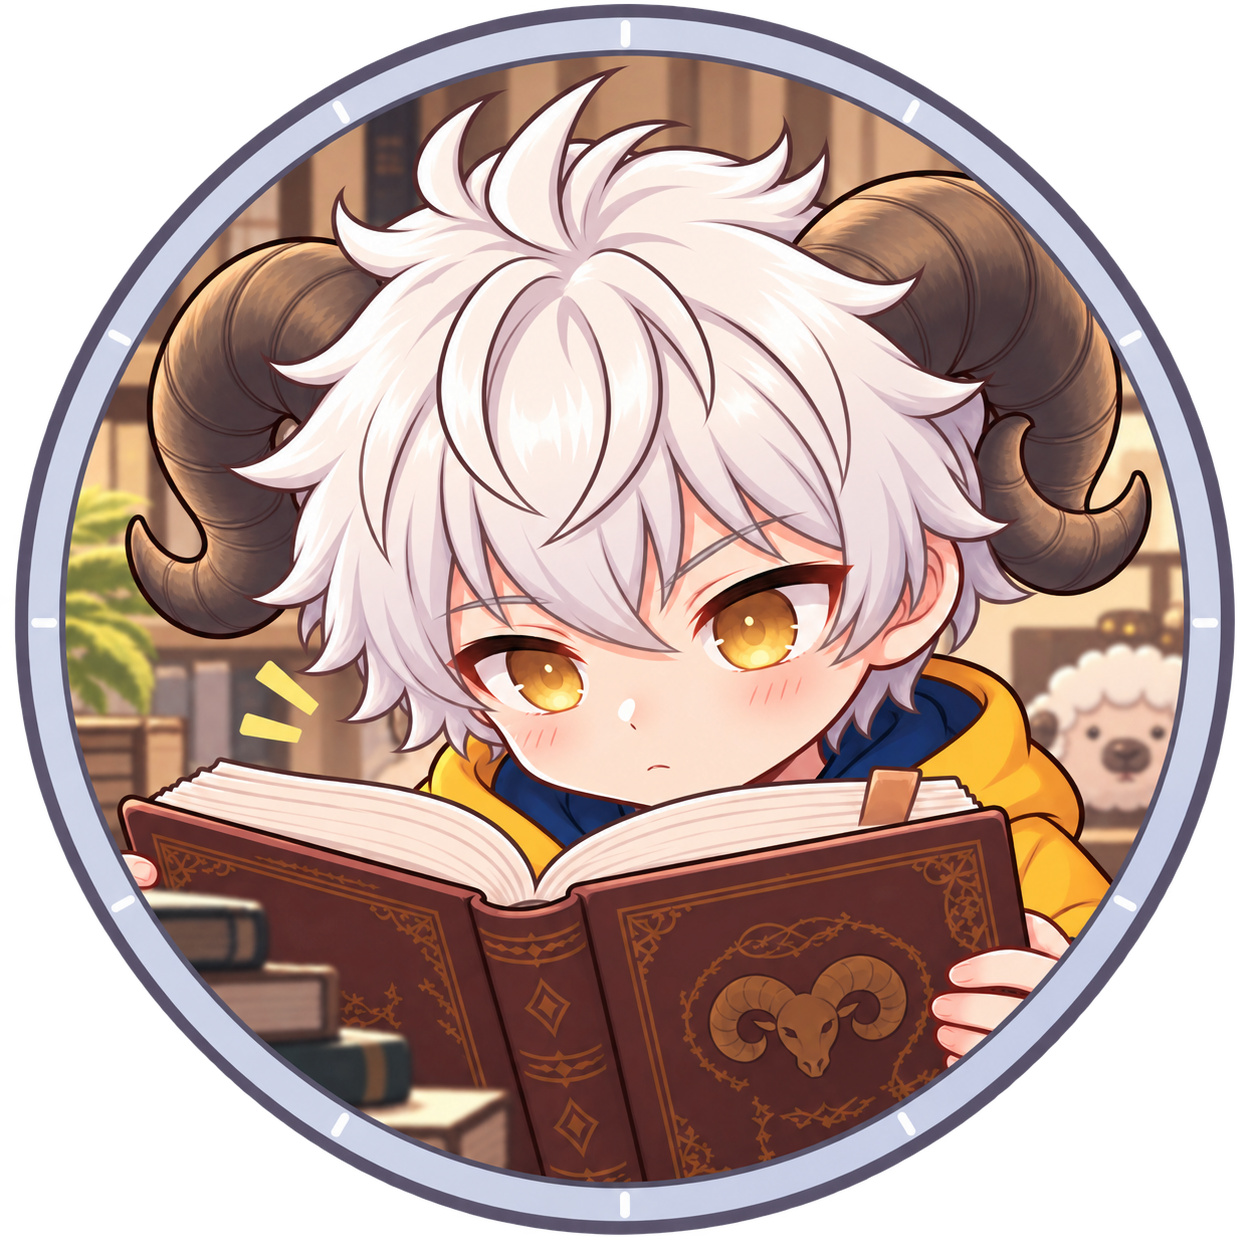
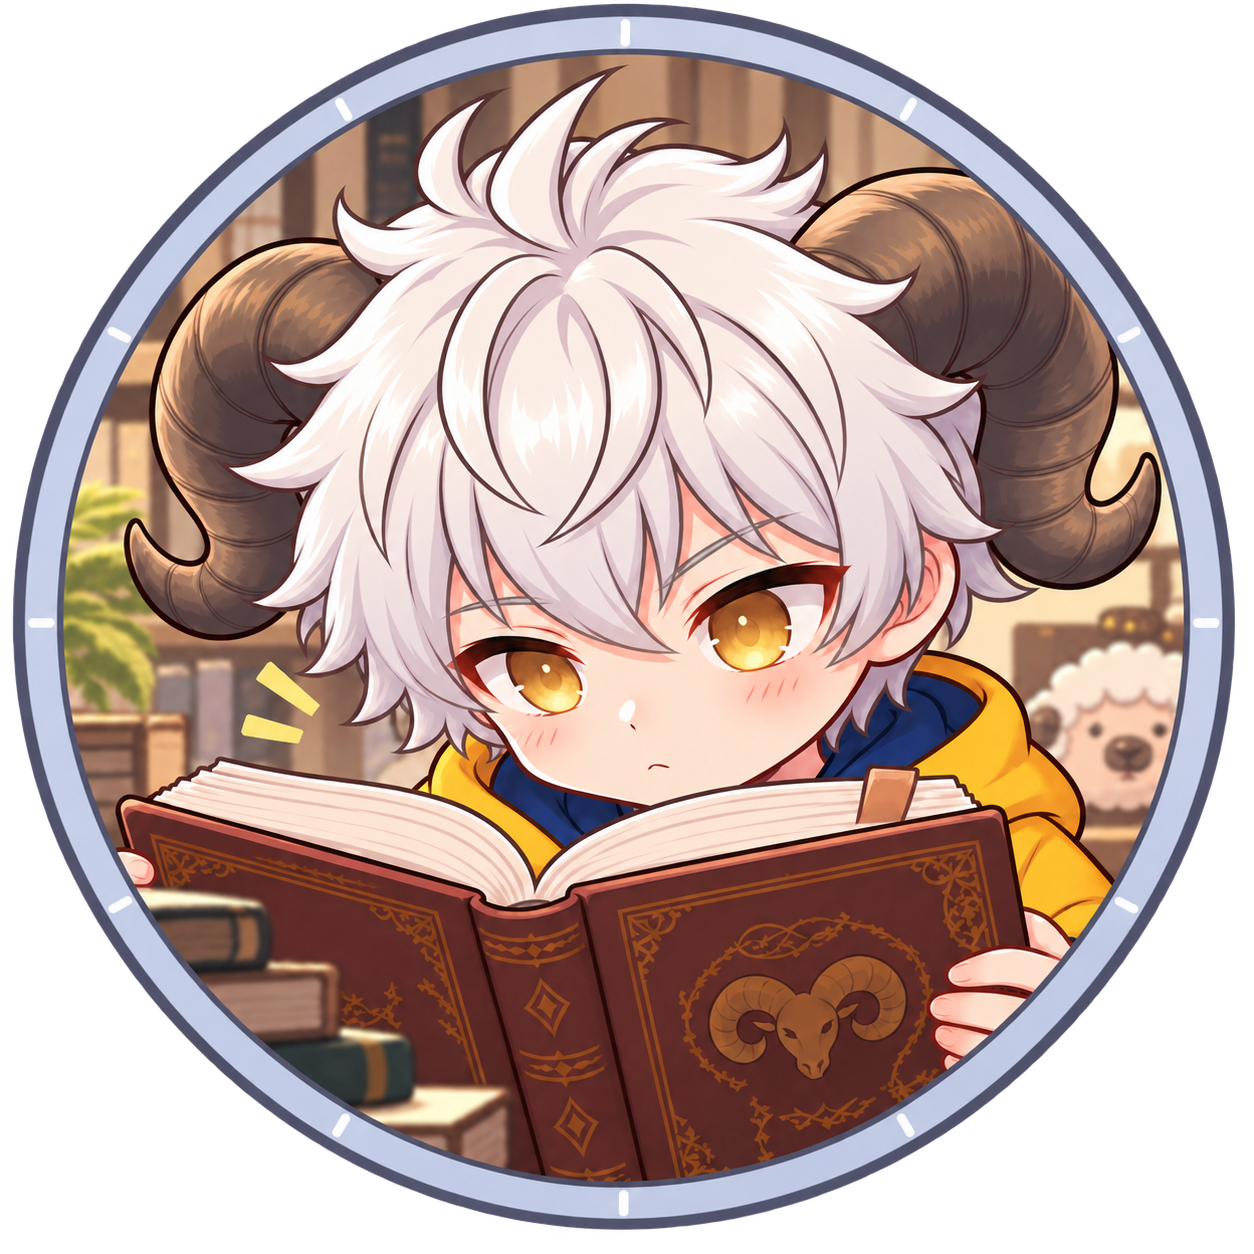
Correct Polisher artwork for 1.1.2 update test

diff --git a/README.md b/README.md
@@ -1,8 +1,8 @@
 # MieMie Polisher · 咩咩润色工具
 
-MieMie Hub 的原生 Extension，当前版本 **1.1.1**，永久 ID **`miemie.polisher`**。完整保留翻译／润色、原 UI、提示词库、API／模型配置、术语、标签保护、备份恢复、发送原文及调试能力。
+MieMie Hub 的原生 Extension，当前版本 **1.1.2**，永久 ID **`miemie.polisher`**。完整保留翻译／润色、原 UI、提示词库、API／模型配置、术语、标签保护、备份恢复、发送原文及调试能力。
 
-本项目可在酒馆助手中独立运行，也可通过可选 Launcher 协议接入 Hub。1.1.0 新增独立悬浮球和动态自动收纳；1.1.1 仅替换 SheepSheep 提供的修正版 Icon 并提升 PATCH；原翻译／润色业务与数据结构不变。构建及测试不依赖 Hub 源码或另一个项目目录。
+本项目可在酒馆助手中独立运行，也可通过可选 Launcher 协议接入 Hub。1.1.0 新增独立悬浮球和动态自动收纳；1.1.2 仅替换 SheepSheep 提供的修正版 Icon 并提升 PATCH；原翻译／润色业务与数据结构不变。构建及测试不依赖 Hub 源码或另一个项目目录。
 
 ## 开发与构建
 
@@ -19,8 +19,8 @@ npm test
 生成：
 
 ```text
-build/咩咩润色工具-Extension-1.1.1.json
-build/MieMie-Polisher-Extension-1.1.1.json
+build/咩咩润色工具-Extension-1.1.2.json
+build/MieMie-Polisher-Extension-1.1.2.json
 build/MieMie-Extension-update.json
 build/manifest.json
 build/miemie-polisher.js
@@ -28,7 +28,7 @@ build/miemie-polisher.js
 
 前者用于酒馆助手导入，`manifest.json` 是声明副本，JavaScript 文件用于检查。`build/`、`node_modules/`、`test-results/` 均忽略，不是基础构建必须提交的文件。
 
-版本由本项目 `package.json` 与根目录 `manifest.json` 共同声明；更新时二者必须一致，构建会检查。所有新的官方版本必须使用无前导零的 `MAJOR.MINOR.PATCH`，详见 [版本规范](docs/VERSIONING.md)。Hub 版本不参与决定 Polisher 版本；运行时依赖 Extension API v1。GitHub Release Asset 使用 ASCII 文件名 `MieMie-Polisher-Extension-1.1.1.json`，与本地中文文件名的产物内容相同。
+版本由本项目 `package.json` 与根目录 `manifest.json` 共同声明；更新时二者必须一致，构建会检查。所有新的官方版本必须使用无前导零的 `MAJOR.MINOR.PATCH`，详见 [版本规范](docs/VERSIONING.md)。Hub 版本不参与决定 Polisher 版本；运行时依赖 Extension API v1。GitHub Release Asset 使用 ASCII 文件名 `MieMie-Polisher-Extension-1.1.2.json`，与本地中文文件名的产物内容相同。
 
 ## 目录职责
 

diff --git a/docs/TESTING.md b/docs/TESTING.md
@@ -1,6 +1,6 @@
 # Polisher 验证说明
 
-当前版本 **1.1.1**。独立安装开发依赖、构建和测试：
+当前版本 **1.1.2**。独立安装开发依赖、构建和测试：
 
 ```sh
 npm ci
@@ -24,7 +24,7 @@ npm test
 组合测试由独立 Hub 项目维护，只把本项目构建 JSON 交给它；不能引用 Polisher 源码。锁定文件保存双方版本及 SHA-256，更新配对后执行：
 
 ```sh
-npm run test:integration -- --polisher /path/to/MieMie-Polisher-Extension-1.1.1.json
+npm run test:integration -- --polisher /path/to/MieMie-Polisher-Extension-1.1.2.json
 ```
 
 上面的 `/path/to/` 仅为公开文档占位，不是开发机路径。
@@ -35,8 +35,8 @@ npm run test:integration -- --polisher /path/to/MieMie-Polisher-Extension-1.1.1.
 2. 保持 Polisher 启用，启动 Hub：独立球消失、Hub Launcher 出现并打开原 UI。
 3. 停用 Hub：独立球恢复；再启用 Hub：再次收纳，无重复球。
 4. Hub 中停用或 Runtime 注销 Polisher：不得立刻出现独立球绕过用户操作；重新启用可恢复。
-5. 保持真实酒馆安装版本 1.1.0，由用户在 Hub 检查并更新到 1.1.1：核对单一脚本实例、安装实例 ID 不变，原设置/API Key/Prompt/备份保留，修正版 Icon 生效。
+5. 保持真实酒馆安装版本 1.1.1，由用户在 Hub 检查并更新到 1.1.2：核对单一脚本实例、安装实例 ID 不变，原设置/API Key/Prompt/备份保留，修正版 Icon 生效。
 
 切换会取消进行中的润色/接口请求，不迁移正在等待的请求。未保存接口输入及仅页面内 Key 在同一 Polisher iframe 内的两种模式之间保留；彻底停用/重载 Polisher 自己的脚本或页面时，这些未持久状态仍按页面级语义丢弃。要跨脚本更新保留 Key，请先使用现有的“在此浏览器记住密钥”。
 
-1.1.1 使用 SheepSheep 提供的修正版 Icon 原始 PNG，未重绘、压缩或调整尺寸。DOM 模拟测试不替代真实酒馆布局、浏览器下载/CORS 或真实 OAuth 验证。
+1.1.2 使用 SheepSheep 提供的修正版 Icon 原始 PNG，未重绘、压缩或调整尺寸。DOM 模拟测试不替代真实酒馆布局、浏览器下载/CORS 或真实 OAuth 验证。

diff --git a/docs/VERSIONING.md b/docs/VERSIONING.md
@@ -6,6 +6,6 @@
 
 `package.json` 与 Extension `manifest.json` 必须声明相同版本。构建拒绝不符合上述格式的版本。Git Tag 使用 `v<version>`，GitHub Pre-release 是发布状态，仍可用于纯三段式版本，不属于版本字符串的一部分。
 
-本次 Polisher 版本为 `1.1.1`，仅替换 SheepSheep 提供的正式 Icon 并提升 PATCH，不修改业务或数据结构。GitHub 分发文件为 ASCII `MieMie-Polisher-Extension-1.1.1.json`、`manifest.json` 与机器元数据 `MieMie-Extension-update.json`；本地同时生成字节一致的中文产品文件名。1.1.0 及更早历史发布保持不变。
+本次 Polisher 版本为 `1.1.2`，仅替换 SheepSheep 提供的正式 Icon 并提升 PATCH，不修改业务或数据结构。GitHub 分发文件为 ASCII `MieMie-Polisher-Extension-1.1.2.json`、`manifest.json` 与机器元数据 `MieMie-Extension-update.json`；本地同时生成字节一致的中文产品文件名。1.1.1 及更早历史发布保持不变。
 
 旧版本命名可能保留在源码提交历史中，不重写提交历史。版本规范化不改变永久 Extension ID `miemie.polisher`，也不修改旧数据兼容键 `meeme_translation_v1`、`meeme_translation_key_v1` 或翻译／润色业务。

diff --git a/docs/PACKAGE.md b/docs/PACKAGE.md
@@ -15,12 +15,12 @@
   "schemaVersion": 1,
   "format": "tavern-helper-script",
   "productId": "miemie.polisher",
-  "version": "1.1.1",
-  "tag": "v1.1.1",
+  "version": "1.1.2",
+  "tag": "v1.1.2",
   "scriptId": "4dd658f1-9d4b-4f74-bba8-305c4ef2a9c8",
   "manifest": { "...": "完整的正式 Manifest" },
   "asset": {
-    "name": "MieMie-Polisher-Extension-1.1.1.json",
+    "name": "MieMie-Polisher-Extension-1.1.2.json",
     "size": 0,
     "sha256": "构建时计算的最终 JSON 原始字节 SHA-256"
   },
@@ -34,4 +34,4 @@
 
 Hash/Digest 只能验证附件完整性，不证明作者身份或代码安全。Registry 默认上架和机器安装兼容均不表示安全审核。
 
-所有新版本只使用 `MAJOR.MINOR.PATCH`。1.1.0 新增独立 Launcher 和 Hub 自动收纳；1.1.1 仅替换正式 Icon 并提升 PATCH。保留 1.1.0 Release 作为真实更新测试基线。
+所有新版本只使用 `MAJOR.MINOR.PATCH`。1.1.0 新增独立 Launcher 和 Hub 自动收纳；1.1.2 仅替换正式 Icon 并提升 PATCH。保留 1.1.1 Release 作为本轮真实更新测试基线。

diff --git a/docs/COMPATIBILITY.md b/docs/COMPATIBILITY.md
@@ -9,9 +9,9 @@
 | 永久 Extension ID | `miemie.polisher` |
 | Launcher 名称 | 咩咩润色 |
 | 助手脚本 UUID | `4dd658f1-9d4b-4f74-bba8-305c4ef2a9c8` |
-| 版本 | `1.1.1` |
+| 版本 | `1.1.2` |
 
-Manifest 版本为纯三段式 `1.1.1`；永久 ID、产品名称和 Launcher 声明不变，不为旧 `miemie.translation` 添加别名。
+Manifest 版本为纯三段式 `1.1.2`；永久 ID、产品名称和 Launcher 声明不变，不为旧 `miemie.translation` 添加别名。
 
 ## 有意保留的历史标识
 

diff --git a/docs/LAUNCHER-PROTOCOL.md b/docs/LAUNCHER-PROTOCOL.md
@@ -1,6 +1,6 @@
 # 可选 Launcher 双模式协议 v1
 
-MieMie Polisher 1.1.1 是该可选协议的参考实现。社区作品无需适配即可作为 Catalog 外部项目被收录；本协议不是安装资格或作者认证。
+MieMie Polisher 1.1.2 是该可选协议的参考实现。社区作品无需适配即可作为 Catalog 外部项目被收录；本协议不是安装资格或作者认证。
 
 ## 约定
 
